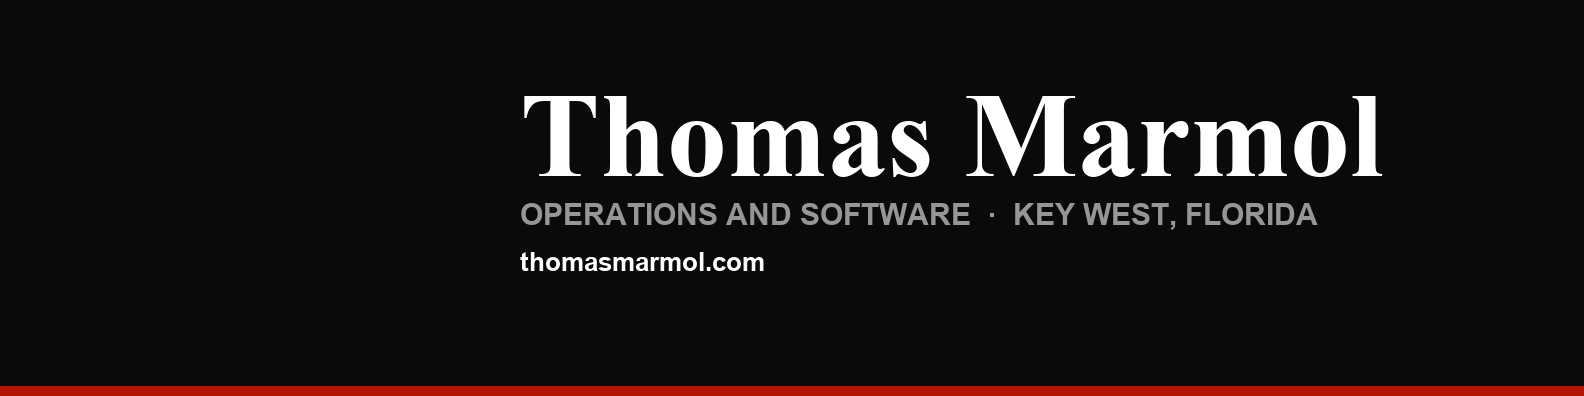
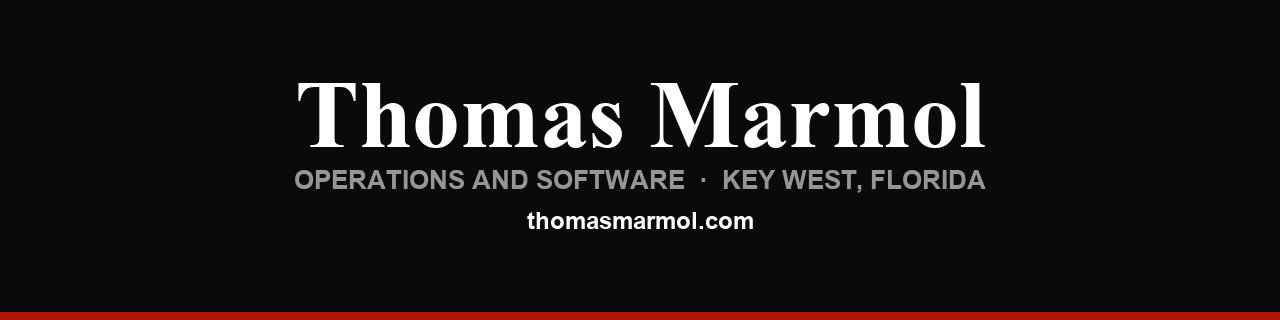
Add files via upload

Changed region(s): [[0.2188, 0.2188, 0.875, 0.4688], [0.2188, 0.5, 0.8438, 0.5938], [0.3125, 0.625, 0.5938, 0.7188]]

diff --git a/README.md b/README.md
@@ -1,1 +1,48 @@
-<img src="banner.png" width="100%" alt="Thomas Marmol - Operations and Software - Key West, Florida">
+![Thomas Marmol, operations and software, Key West, Florida](banner.png)
+
+He runs landscaping crews and writes the software those crews use. A problem found
+on a job site in the morning is fixed by the evening, because the person who found
+it is the person who writes the code.
+
+**[thomasmarmol.com](https://thomasmarmol.com)**
+
+---
+
+### Shipped
+
+**GroundCrew** &middot; iOS and web &middot; Swift, SwiftUI, Firebase, Next.js
+Built for an owner of two to twelve people who is on a truck, not at a desk. Orders
+the route, holds the checklist for each property, and collects two photographs,
+before and after from the same spot, so the invoice can leave the same day the work
+was done. Three weeks later, when a customer says nobody came, the argument is over.
+
+**Crew Talk** &middot; iOS &middot; Swift, SwiftUI
+Voice only, both directions, English and Spanish. A worker holds one button and says
+it, the phone cleans the sentence and says it back in the other language. Nobody
+takes a glove off.
+
+---
+
+### Also runs
+
+Invoicing from the job to the bank, accounts receivable, and the collection call.
+Job sites, routes, and who is standing on them.
+
+---
+
+### On the record
+
+Nine certifications from eight issuing bodies, two of them the State of Florida.
+
+| | |
+|---|---|
+| Fertilizer Applicator, no. LF502750 | Florida Dept of Agriculture, through 2030 |
+| 911 Public Safety Telecommunicator | Florida Dept of Health |
+| Master Certification in Entrepreneurship | Certiport |
+| GI-BMP, no. GV936745-1 | UF/IFAS Extension |
+
+All nine, with the scans, at [thomasmarmol.com](https://thomasmarmol.com).
+
+---
+
+`Swift` `SwiftUI` `Firebase` `Next.js` `TypeScript`
